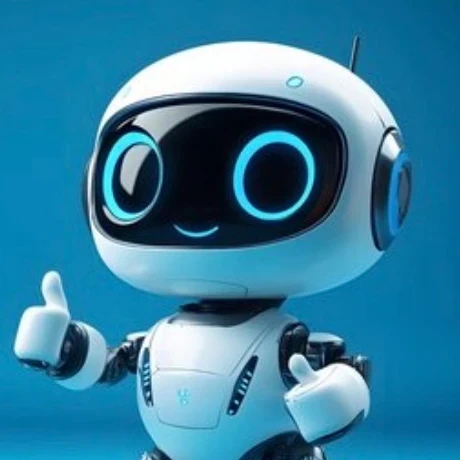
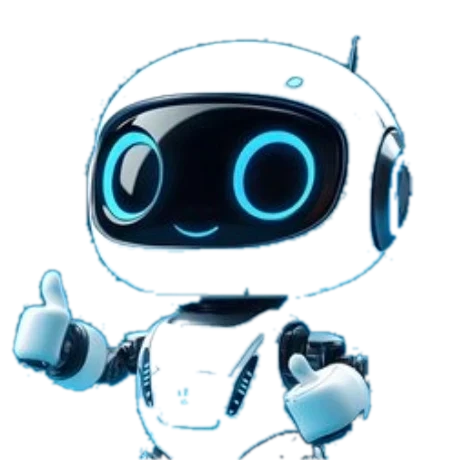
Fix chat dock mascot visibility, shorten accuracy answers, cut out mascot bg
Three related fixes to the Guda chat experience, reported together as
"the mascot not showing when chat is opened, also its too long":

1. The "how accurate is the model" answer dumped 6+ metric bullets
   (including per-market over/under and BTTS breakdowns and a
   calibration-error figure nobody asked for), the full list of covered
   league names, and two paragraphs into one chat bubble -- reproduced
   it and confirmed the reply alone was tall enough to fill most of a
   phone screen. Trimmed to the headline 1X2 numbers (matches evaluated,
   accuracy, log loss, Brier score) plus a league *count* instead of the
   full name list, both pointing to the existing Methodology page link
   for the detail that used to be dumped inline. Confirmed via the
   existing test_accuracy_quotes_the_held_out_test_split /
   test_accuracy_refuses_to_invent_a_number_without_a_backtest tests
   (unaffected -- neither asserts on the dropped fields) plus the full
   assistant suite, 93 passed.

2. .chat-dock's height was capped against 100vh, which on a phone is the
   *layout* viewport (address bar collapsed) -- taller than what's
   actually visible whenever the address bar is showing. Anchored to the
   bottom edge, overshooting the real visible height pushes the top of
   the panel -- the header, with Guda's mascot -- above the fold instead
   of just growing downward. Added a 100dvh (dynamic viewport height)
   override that tracks the real visible area as browser chrome shows/
[…]

diff --git a/frontend/src/styles.css b/frontend/src/styles.css
@@ -4140,7 +4140,16 @@ table.admin-table {
   z-index: 60;
   width: 400px;
   max-width: calc(100vw - var(--space-5) * 2);
+  /* 100vh on a phone is the layout viewport (address bar collapsed), taller
+     than what's actually visible whenever the address bar is showing. This
+     panel is anchored to the bottom edge, so overshooting the real visible
+     height pushes its top -- the header, with Guda's mascot -- off-screen
+     above the fold instead of just growing downward. 100dvh tracks the
+     actual visible viewport as the browser chrome shows/hides; the plain
+     vh rule stays first as the fallback for browsers that don't support
+     dvh, which then ignore the second, unrecognized value entirely. */
   max-height: min(680px, calc(100vh - var(--space-6)));
+  max-height: min(680px, calc(100dvh - var(--space-6)));
   display: flex;
   flex-direction: column;
   background: var(--bg-surface);
@@ -4164,6 +4173,11 @@ table.admin-table {
   padding: var(--space-3) var(--space-4);
   border-bottom: 1px solid var(--border);
   background: var(--bg-surface-2);
+  /* Only .chat-thread (flex: 1) is meant to give ground to a long
+     conversation -- without this, a reply long enough to push the flex
+     column past the dock's own max-height could compress the header
+     (and Guda's mascot in it) instead of just scrolling the thread. */
+  flex-shrink: 0;
 }
 
 .chat-dock-title {
@@ -4395,6 +4409,7 @@ table.admin-table {
   flex-wrap: wrap;
   gap: 6px;
   padding: 0 var(--space-4) var(--space-3);
+  flex-shrink: 0;
 }
 
 .chat-error {
@@ -4412,6 +4427,7 @@ table.admin-table {
   padding: var(--space-3) var(--space-4);
   border-top: 1px solid var(--border);
   background: var(--bg-surface-2);
+  flex-shrink: 0;
 }
 
 .chat-input-row textarea {
@@ -4456,6 +4472,7 @@ table.admin-table {
   color: var(--text-muted);
   line-height: 1.5;
   text-align: center;
+  flex-shrink: 0;
 }
 
 /* ==========================================================================

diff --git a/backend/app/assistant/responder.py b/backend/app/assistant/responder.py
@@ -779,9 +779,12 @@ def _accuracy(db: Session, q: ParsedQuery) -> Answer:
         "",
     ]
 
-    # Explicit labels rather than derived ones: title-casing the stored keys
-    # turns "over_2_5_log_loss" into "Over 2 5 Log Loss", and the goal-line
-    # metrics are exactly the ones a user is most likely to ask about.
+    # Headline 1X2 numbers only -- this is a chat bubble, not the full
+    # backtest report. The per-market breakdowns (over/under, BTTS,
+    # calibration error) and the full league list used to all get dumped
+    # in here too, which made every answer to "how accurate is the model"
+    # several screens long on a phone; that detail already lives on the
+    # linked Methodology page (see `sources` below) for anyone who wants it.
     label_map = {
         "n": ("Matches evaluated", "{:.0f}"),
         "matches": ("Matches evaluated", "{:.0f}"),
@@ -789,22 +792,20 @@ def _accuracy(db: Session, q: ParsedQuery) -> Answer:
         "log_loss": ("1X2 log loss", "{:.4f}"),
         "brier_score": ("1X2 Brier score", "{:.4f}"),
         "brier": ("1X2 Brier score", "{:.4f}"),
-        "calibration_error": ("Calibration error (ECE)", "{:.4f}"),
-        "over_2_5_log_loss": ("Over 2.5 log loss", "{:.4f}"),
-        "over_2_5_brier": ("Over 2.5 Brier score", "{:.4f}"),
-        "btts_log_loss": ("Both-teams-to-score log loss", "{:.4f}"),
-        "btts_brier": ("Both-teams-to-score Brier score", "{:.4f}"),
     }
     # Report in a deliberate order (headline first) rather than dict order.
     ordering = list(label_map)
     for key in sorted(preferred, key=lambda k: (ordering.index(k) if k in ordering else len(ordering), k)):
+        if key not in label_map:
+            continue
         value = preferred[key]
-        label, fmt = label_map.get(key, (key.replace("_", " ").capitalize(), "{:.4f}"))
+        label, fmt = label_map[key]
         lines.append(f"- {label}: {fmt.format(value)}")
 
     if snapshot.leagues:
         lines.append("")
-        lines.append(f"Leagues covered: {', '.join(snapshot.leagues)}.")
+        count = len(snapshot.leagues)
+        lines.append(f"Covers {count} league{'s' if count != 1 else ''} -- see Methodology for the full list and market-by-market numbers.")
 
     lines.append("")
     lines.append(
